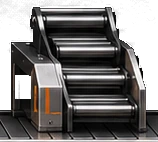
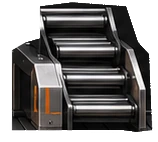
Line: push rebuilt from a proper silhouette (dark bracket and post solid), chevrons moved onto the ramp; clearly visible idle motion on every machine

Changed region(s): [[0.0, 0.0, 1.0, 1.0], [0.0, 0.0, 0.0253, 0.0282]]

diff --git a/ui/style.css b/ui/style.css
@@ -606,3 +606,15 @@ nav .menu a { display: grid; gap: 1px; padding: 9px 12px; height: auto; border-b
 .lineart .ln-head { animation: ln-idlebob 5.5s ease-in-out infinite; } .lineart .ln-vlight { animation: ln-idleblink 3.2s ease-in-out infinite; } .lineart.shipping .ln-bin-glow { animation: ln-idlebin 5s ease-in-out infinite; }
 @keyframes ln-idleglow { 0%, 100% { opacity: .06; } 50% { opacity: .3; } } @keyframes ln-idlepulse { 0%, 100% { opacity: .04; } 50% { opacity: .32; } } @keyframes ln-idlebob { 0%, 100% { transform: translateY(0); } 50% { transform: translateY(3px); } }
 @keyframes ln-idleblink { 0%, 100% { opacity: .5; } 50% { opacity: 1; } } @keyframes ln-idlebin { 0%, 100% { stroke-opacity: .2; } 50% { stroke-opacity: .5; } }
+
+/* waiting, made clearly visible (the earlier values were too faint for everything but the sandbox and the arm) */
+.lineart .ln-shimmer { opacity: .32; animation: ln-shim 2.6s linear infinite; } .lineart .ln-rollglint { opacity: .3; animation: ln-shim 1.9s linear infinite; }
+.lineart .ln-blueglow { animation: ln-idleglow 4.6s ease-in-out infinite; } .lineart .ln-lens { animation: ln-idleglow2 3.2s ease-in-out -1s infinite; } .lineart .ln-sweep { opacity: .5; animation: ln-sweep 5.5s ease-in-out infinite; }
+.lineart .ln-glow { animation: ln-idlepulse2 3.4s ease-in-out infinite; } .lineart .ln-chev { stroke-width: 4.5; animation: ln-idlechev 2.4s ease-in-out infinite; } .lineart .ln-chev1 { animation-delay: .35s; } .lineart .ln-chev2 { animation-delay: .7s; }
+.lineart .ln-head { animation: ln-idlebob2 6s ease-in-out infinite; } .lineart .ln-vlight { animation: ln-idleblink2 2.4s ease-in-out infinite; } .lineart.shipping .ln-bin-glow { animation: ln-idlebin2 4s ease-in-out infinite; }
+.lineart .ln-scan { animation: ln-idlescan 6.5s ease-in-out infinite; } .lineart .ln-slip { animation: ln-idleslip 7s ease-in infinite; } .lineart .ln-slip1 { animation-delay: 3.5s; } .lineart .ln-ghost { animation: ln-idleghost 5.5s ease-in infinite; } .lineart .ln-ghost1 { animation-delay: 2.7s; }
+@keyframes ln-idleglow { 0%, 100% { opacity: .12; } 50% { opacity: .55; } } @keyframes ln-idleglow2 { 0%, 100% { opacity: .2; } 50% { opacity: .85; } } @keyframes ln-idlepulse2 { 0%, 100% { opacity: .12; } 50% { opacity: .85; } }
+@keyframes ln-idlechev { 0%, 100% { opacity: .08; } 40% { opacity: .75; } } @keyframes ln-idlebob2 { 0%, 100% { transform: translateY(0); } 50% { transform: translateY(8px); } } @keyframes ln-idleblink2 { 0%, 45% { fill: #3b3d42; } 55%, 85% { fill: #3be0a1; } 100% { fill: #3b3d42; } }
+@keyframes ln-idlebin2 { 0%, 100% { stroke-opacity: .15; } 50% { stroke-opacity: .7; } } @keyframes ln-idlescan { 0%, 6% { transform: translateX(912px); opacity: 0; } 20% { opacity: .55; } 62% { transform: translateX(996px); opacity: .55; } 76%, 100% { transform: translateX(996px); opacity: 0; } }
+@keyframes ln-idleslip { 0% { transform: translate(385px, 266px) rotate(-6deg); opacity: 0; } 12% { opacity: .75; } 70% { transform: translate(385px, 330px) rotate(2deg); opacity: .75; } 82%, 100% { transform: translate(385px, 338px); opacity: 0; } }
+@keyframes ln-idleghost { 0% { transform: translate(1110px, 384px); opacity: 0; } 15% { opacity: .6; } 85% { opacity: .6; } 100% { transform: translate(1172px, 286px); opacity: 0; } }

diff --git a/ui/charts.js b/ui/charts.js
@@ -184,7 +184,7 @@ export function createLine3D(stages) {
     verify: () => [img('gate'), s('circle', { cx: 955, cy: 250, r: 15, fill: 'url(#ln-blue)', class: 'ln-lens' }), s('rect', { x: 909, y: 280, width: 5, height: 70, fill: '#fff', class: 'ln-glow' }), s('rect', { x: 990, y: 280, width: 5, height: 70, fill: '#fff', class: 'ln-glow' }),
       s('g', { class: 'ln-scan' }, s('rect', { x: -9, y: 262, width: 18, height: 130, fill: 'url(#ln-beam)' }), s('rect', { x: -1, y: 262, width: 2, height: 130, fill: '#eefaff' })), s('circle', { cx: 984, cy: 249, r: 4, class: 'ln-vlight' })],
     push: () => [img('push'), s('g', { 'clip-path': 'url(#ln-push-clip)' }, s('g', { class: 'ln-rollglint' }, ...Array.from({ length: 8 }, (_, i) => s('rect', { x: 1060, y: 250 + i * 18, width: 160, height: 3, fill: '#fff', opacity: 0.45, transform: 'skewY(-4)' })))),
-      ...[0, 1, 2].map((i) => s('path', { d: `M1118 ${296 - i * 0} l14 -9 l14 9`, class: `ln-chev ln-chev${i}`, transform: `translate(${i * 14} ${-i * 20})` })),
+      ...[[1136, 352], [1150, 322], [1164, 292]].map(([x, y], i) => s('path', { d: 'M-11 5 L0 -6 L11 5', class: `ln-chev ln-chev${i}`, transform: `translate(${x} ${y})` })),
       ...[0, 1].map((i) => s('g', { class: `ln-ghost ln-ghost${i}`, transform: 'translate(1110 384)' }, s('rect', { x: -9, y: -12, width: 18, height: 12, rx: 1.5, fill: '#ffb066', opacity: 0.9 }), s('rect', { x: -9, y: -12, width: 18, height: 12, rx: 1.5, fill: 'none', stroke: '#fff', 'stroke-width': 1.2, opacity: 0.8 })))],
     pr: () => [img('press'), s('g', { class: 'ln-head' }, s('rect', { x: 1305, y: 244, width: 12, height: 40, fill: 'url(#ln-steel)' }), s('rect', { x: 1272, y: 280, width: 78, height: 17, rx: 2, fill: 'url(#ln-steel)', stroke: '#15161a', 'stroke-width': 1.2 }), s('rect', { x: 1272, y: 293, width: 78, height: 4, fill: 'url(#ln-orange)', class: 'ln-glow' }), s('rect', { x: 1272, y: 280, width: 78, height: 3, fill: '#fff', opacity: 0.35 }))],
   };

diff --git a/scripts/make-line-sprites.py b/scripts/make-line-sprites.py
@@ -22,6 +22,12 @@ def key_solid(img, size=13, lo=LO, hi=HI):
     rgba = key(img, lo, hi); a = np.asarray(rgba).copy(); m = Image.fromarray(((a[..., 3] > 60) * 255).astype(np.uint8), 'L').filter(ImageFilter.MaxFilter(size)).filter(ImageFilter.MinFilter(size)); closed = np.asarray(m) > 128
     a[..., 3] = np.where(closed, np.maximum(a[..., 3], 255), a[..., 3]); return Image.fromarray(a)
 
+def silhouette(img, box, poly, lo=LO, hi=HI):
+    """Keep EVERYTHING inside a hand-drawn outline (artwork coordinates), dark metal included, and nothing outside it. For machines whose dark faces the plain key would eat."""
+    from PIL import ImageDraw
+    rgba = key(img, lo, hi); w, h = rgba.size; m = Image.new('L', (w * 4, h * 4), 0); ImageDraw.Draw(m).polygon([((x - box[0]) * 4, (y - box[1]) * 4) for x, y in poly], fill=255); m = np.asarray(m.resize((w, h), Image.LANCZOS)).astype(np.float32) / 255
+    a = np.asarray(rgba).copy(); a[..., 3] = (np.maximum(a[..., 3].astype(np.float32), 255 * (m > 0.5)) * m).astype(np.uint8); return Image.fromarray(a)
+
 def paint(img, box, rgb):
     a = np.asarray(img).copy(); x0, y0, x1, y1 = box; a[y0:y1, x0:x1] = rgb; return Image.fromarray(a)
 
@@ -44,7 +50,9 @@ BG_DARK = (12, 13, 12)
 emit('claim', key_solid(SRC.crop((298, 222, 482, 396))), (298, 222, 482, 396))
 emit('sandbox', key_solid(SRC.crop((506, 222, 664, 396))), (506, 222, 664, 396))
 gate = key_solid(SRC.crop((868, 226, 1036, 398))); emit('gate', gate, (868, 226, 1036, 398))
-emit('push', key_solid(SRC.crop((1054, 256, 1212, 398))), (1054, 256, 1212, 398))
+PUSH_BOX = (1054, 256, 1212, 398)
+PUSH_POLY = [(1066, 306), (1080, 298), (1094, 294), (1094, 262), (1126, 258), (1180, 262), (1186, 280), (1192, 298), (1203, 310), (1206, 386), (1190, 388), (1176, 386), (1140, 386), (1100, 386), (1066, 386)]
+emit('push', silhouette(SRC.crop(PUSH_BOX), PUSH_BOX, PUSH_POLY), PUSH_BOX)
 # press: paint out the parcel that is baked in under it (a real parcel now rides there)
 pr = paint(SRC, (1272, 300, 1352, 357), BG_DARK); emit('press', key_solid(pr.crop((1222, 212, 1408, 398))), (1222, 212, 1408, 398))
 # the parcel itself, cut from that same spot of the artwork
